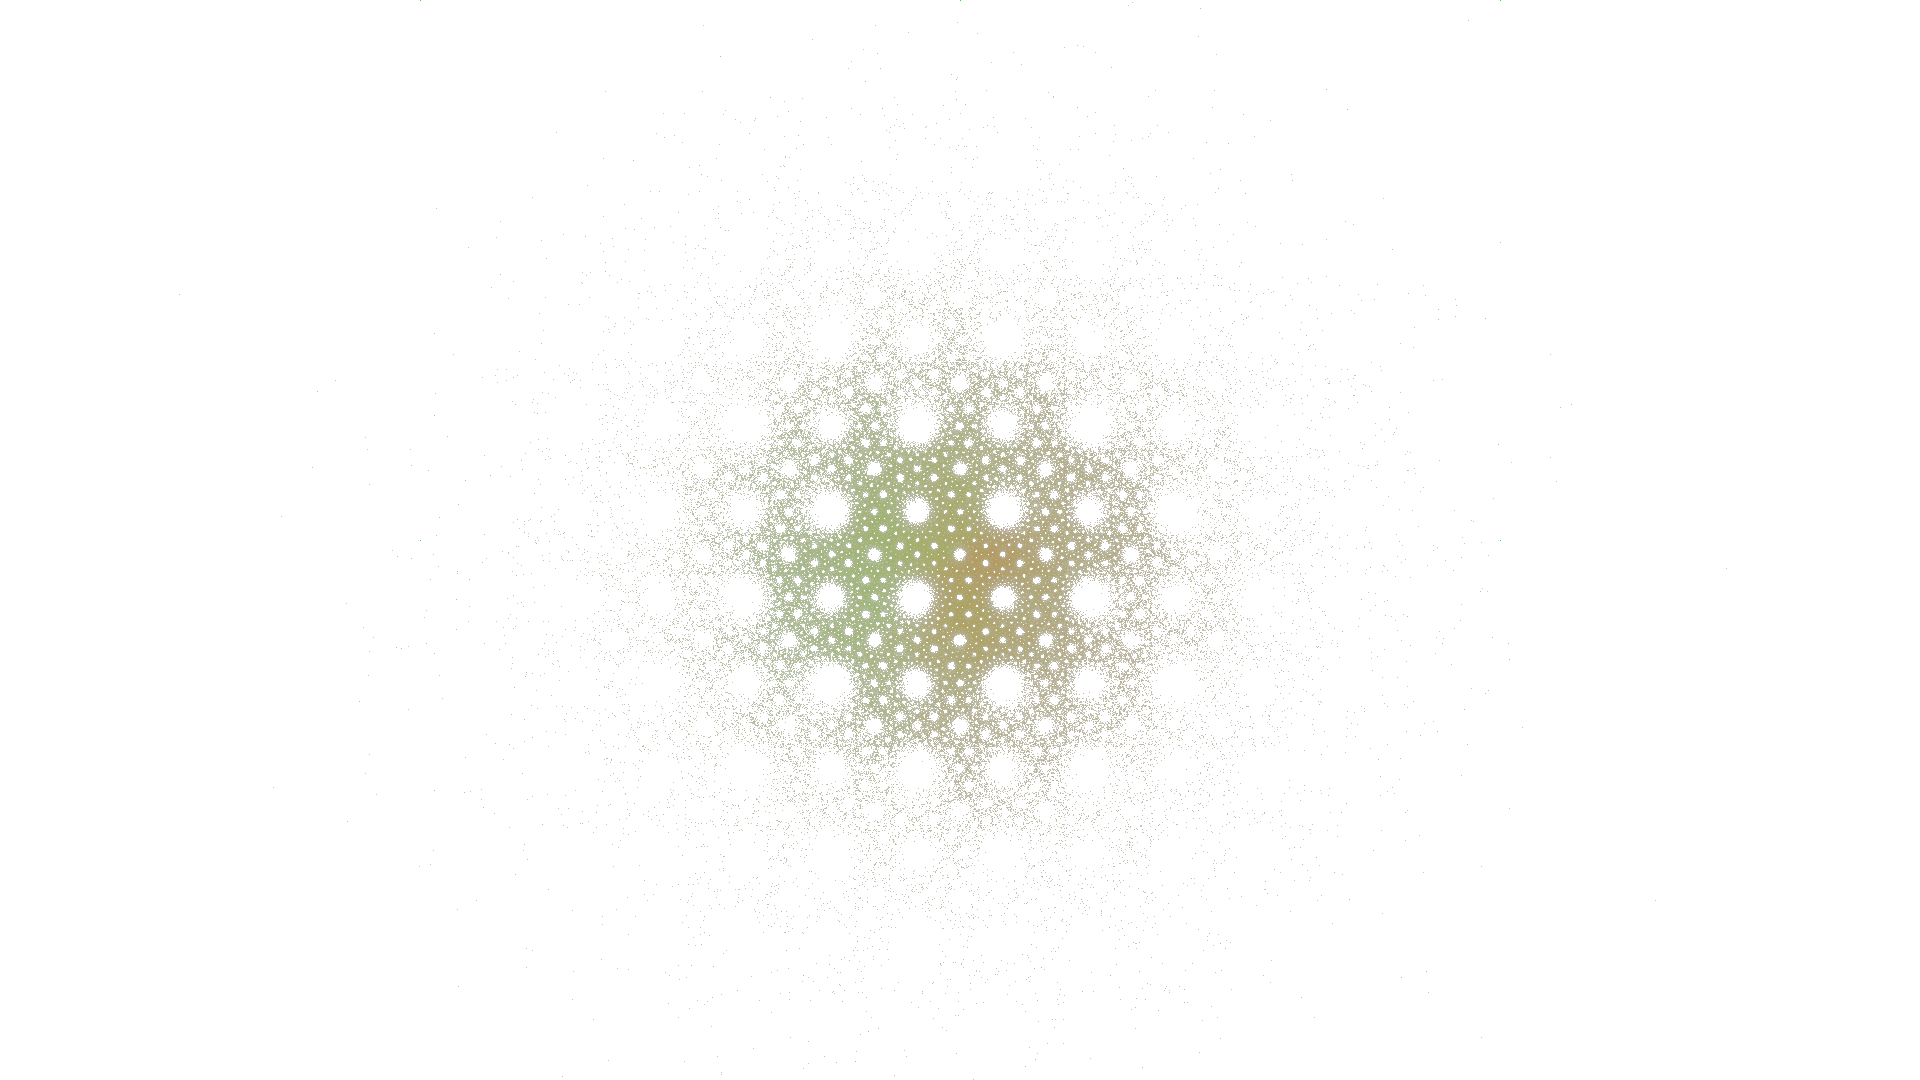
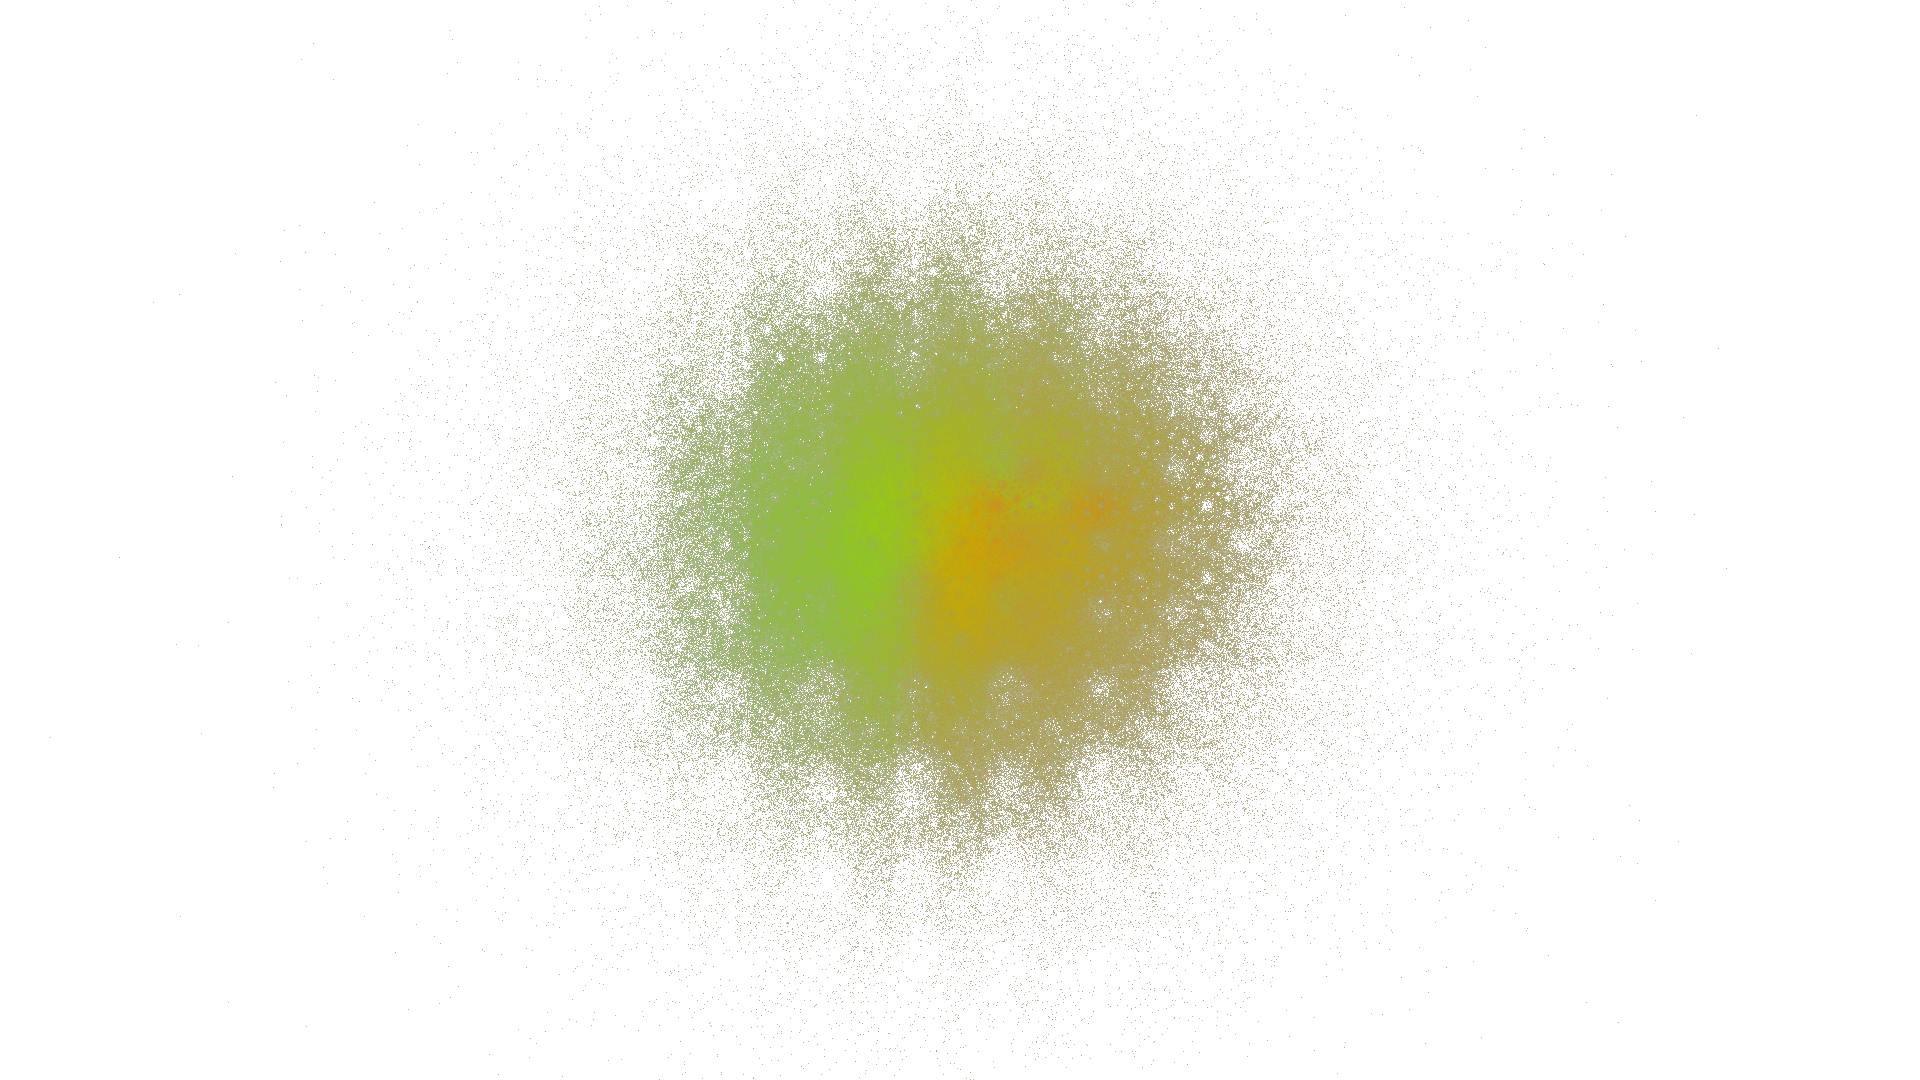
ip

Changed region(s): [[0.2812, 0.1528, 0.7188, 0.8556]]

diff --git a/cpp/random.cpp b/cpp/random.cpp
@@ -34,19 +34,21 @@ auto hoso::Random::gen<hoso::float32>(void) -> float32
       uint64  u64;
       uint32  u32;
       float32 f32;
-   } uf{.u64 = _s1};
+   } uf{.u64 = _s0 + _s3};
+
+   auto const Tmp = _s1 << 17;
 
    _s2 ^= _s0;
    _s3 ^= _s1;
    _s1 ^= _s2;
    _s0 ^= _s3;
 
-   _s2 ^= (uf.u64 << 17ull);
+   _s2 ^= Tmp;
 
-   _s3 ^= (_s3 << 45ull) | (_s3 >> (64ull - 45ull)); // rotate left
+   _s3 ^= (_s3 << 45) | (_s3 >> (64 - 45)); // rotate left
 
-   uf.u32  = (_s0 + _s3) >> (64ull - 23ull); // move highest bits into mantissa
-   uf.u32 |= 127u << 23u; // bias exponent
+   uf.u32  = uf.u64 >> (64 - 23); // move highest bits into mantissa
+   uf.u32 |= 127u << 23; // bias exponent
    uf.f32 -= 1.0f;
 
    return uf.f32;
@@ -68,19 +70,21 @@ auto hoso::Random::gen<hoso::float64>(void) -> float64
    {
       uint64  u64;
       float64 f64;
-   } uf{.u64 = _s1};
+   } uf{.u64 = _s0 + _s3};
+
+   auto const Tmp = _s1 << 17;
 
    _s2 ^= _s0;
    _s3 ^= _s1;
    _s1 ^= _s2;
    _s0 ^= _s3;
 
-   _s2 ^= (uf.u64 << 17ull);
+   _s2 ^= Tmp;
 
-   _s3 ^= (_s3 << 45ull) | (_s3 >> (64ull - 45ull)); // rotate left
+   _s3 ^= (_s3 << 45) | (_s3 >> (64 - 45)); // rotate left
 
-   uf.u64  = (_s0 + _s3) >> (64ull - 52ull); // move highest bits into mantissa
-   uf.u64 |= 1023ull << 52ull; // bias exponent
+   uf.u64  = uf.u64 >> (64 - 52); // move highest bits into mantissa
+   uf.u64 |= 1023ull << 52; // bias exponent
    uf.f64 -= 1.0;
 
    return uf.f64;
@@ -99,9 +103,7 @@ void hoso::Random::jump(uint32 const NJumps)
    };
    constexpr uint32 JumpTableSize = sizeof(JumpTable) / sizeof(*JumpTable);
 
-   auto const NJumpsBounded = NJumps % 128u;
-
-   for (uint32 i = 0; i < NJumpsBounded; ++i)
+   for (uint32 i = 0; i < NJumps; ++i)
    {
       uint64 s0 = 0;
       uint64 s1 = 0;
@@ -110,7 +112,7 @@ void hoso::Random::jump(uint32 const NJumps)
 
       for (uint32 j = 0; j < JumpTableSize; ++j)
       {
-         for (uint64 k = 0; k < 64; ++k)
+         for (uint32 k = 0; k < 64; ++k)
          {
             if (JumpTable[j] & (1ull << k))
             {
@@ -120,7 +122,8 @@ void hoso::Random::jump(uint32 const NJumps)
                s3 ^= _s3;
             }
 
-            void(gen());
+            // TODO just need the body of the generator, not the transform into float
+            gen<float32>();
          }
       }
 

diff --git a/cpp/render.cpp b/cpp/render.cpp
@@ -34,9 +34,9 @@ hoso::flame::Render::Render(uint64 const NIters,
  */
 auto hoso::flame::Render::flame(void) -> Pixel *
 {
-   // TODO image is dimmer with more threads
+   // TODO image is fuzzier with more threads
    auto const HC = std::thread::hardware_concurrency();
-   auto const NThreads = 4; //(HC == 0) ? 2 : HC;
+   auto const NThreads = 8; //(HC == 0) ? 2 : HC;
 
    auto   const HistoSize  = _Width * _Height;
    auto * const histos_Ptr = Pixel::createHisto(HistoSize * NThreads);
@@ -115,6 +115,9 @@ void hoso::flame::Render::populate(Pixel * const histo_Ptr,
       auto const X =           static_cast<int32>(FitPnt.x);
       auto const Y = _Height - static_cast<int32>(FitPnt.y);
 
+      // TODO I think this can be optimized by only comparing the bounds
+      //      on Idx (ie Idx > 0 && Idx < HistoSize)
+      //      Further, exploiting int -> uint, maybe just Idx < HistoSize?
       if (X >= 0 && X < _Width &&
           Y >= 0 && Y < _Height)
       {
